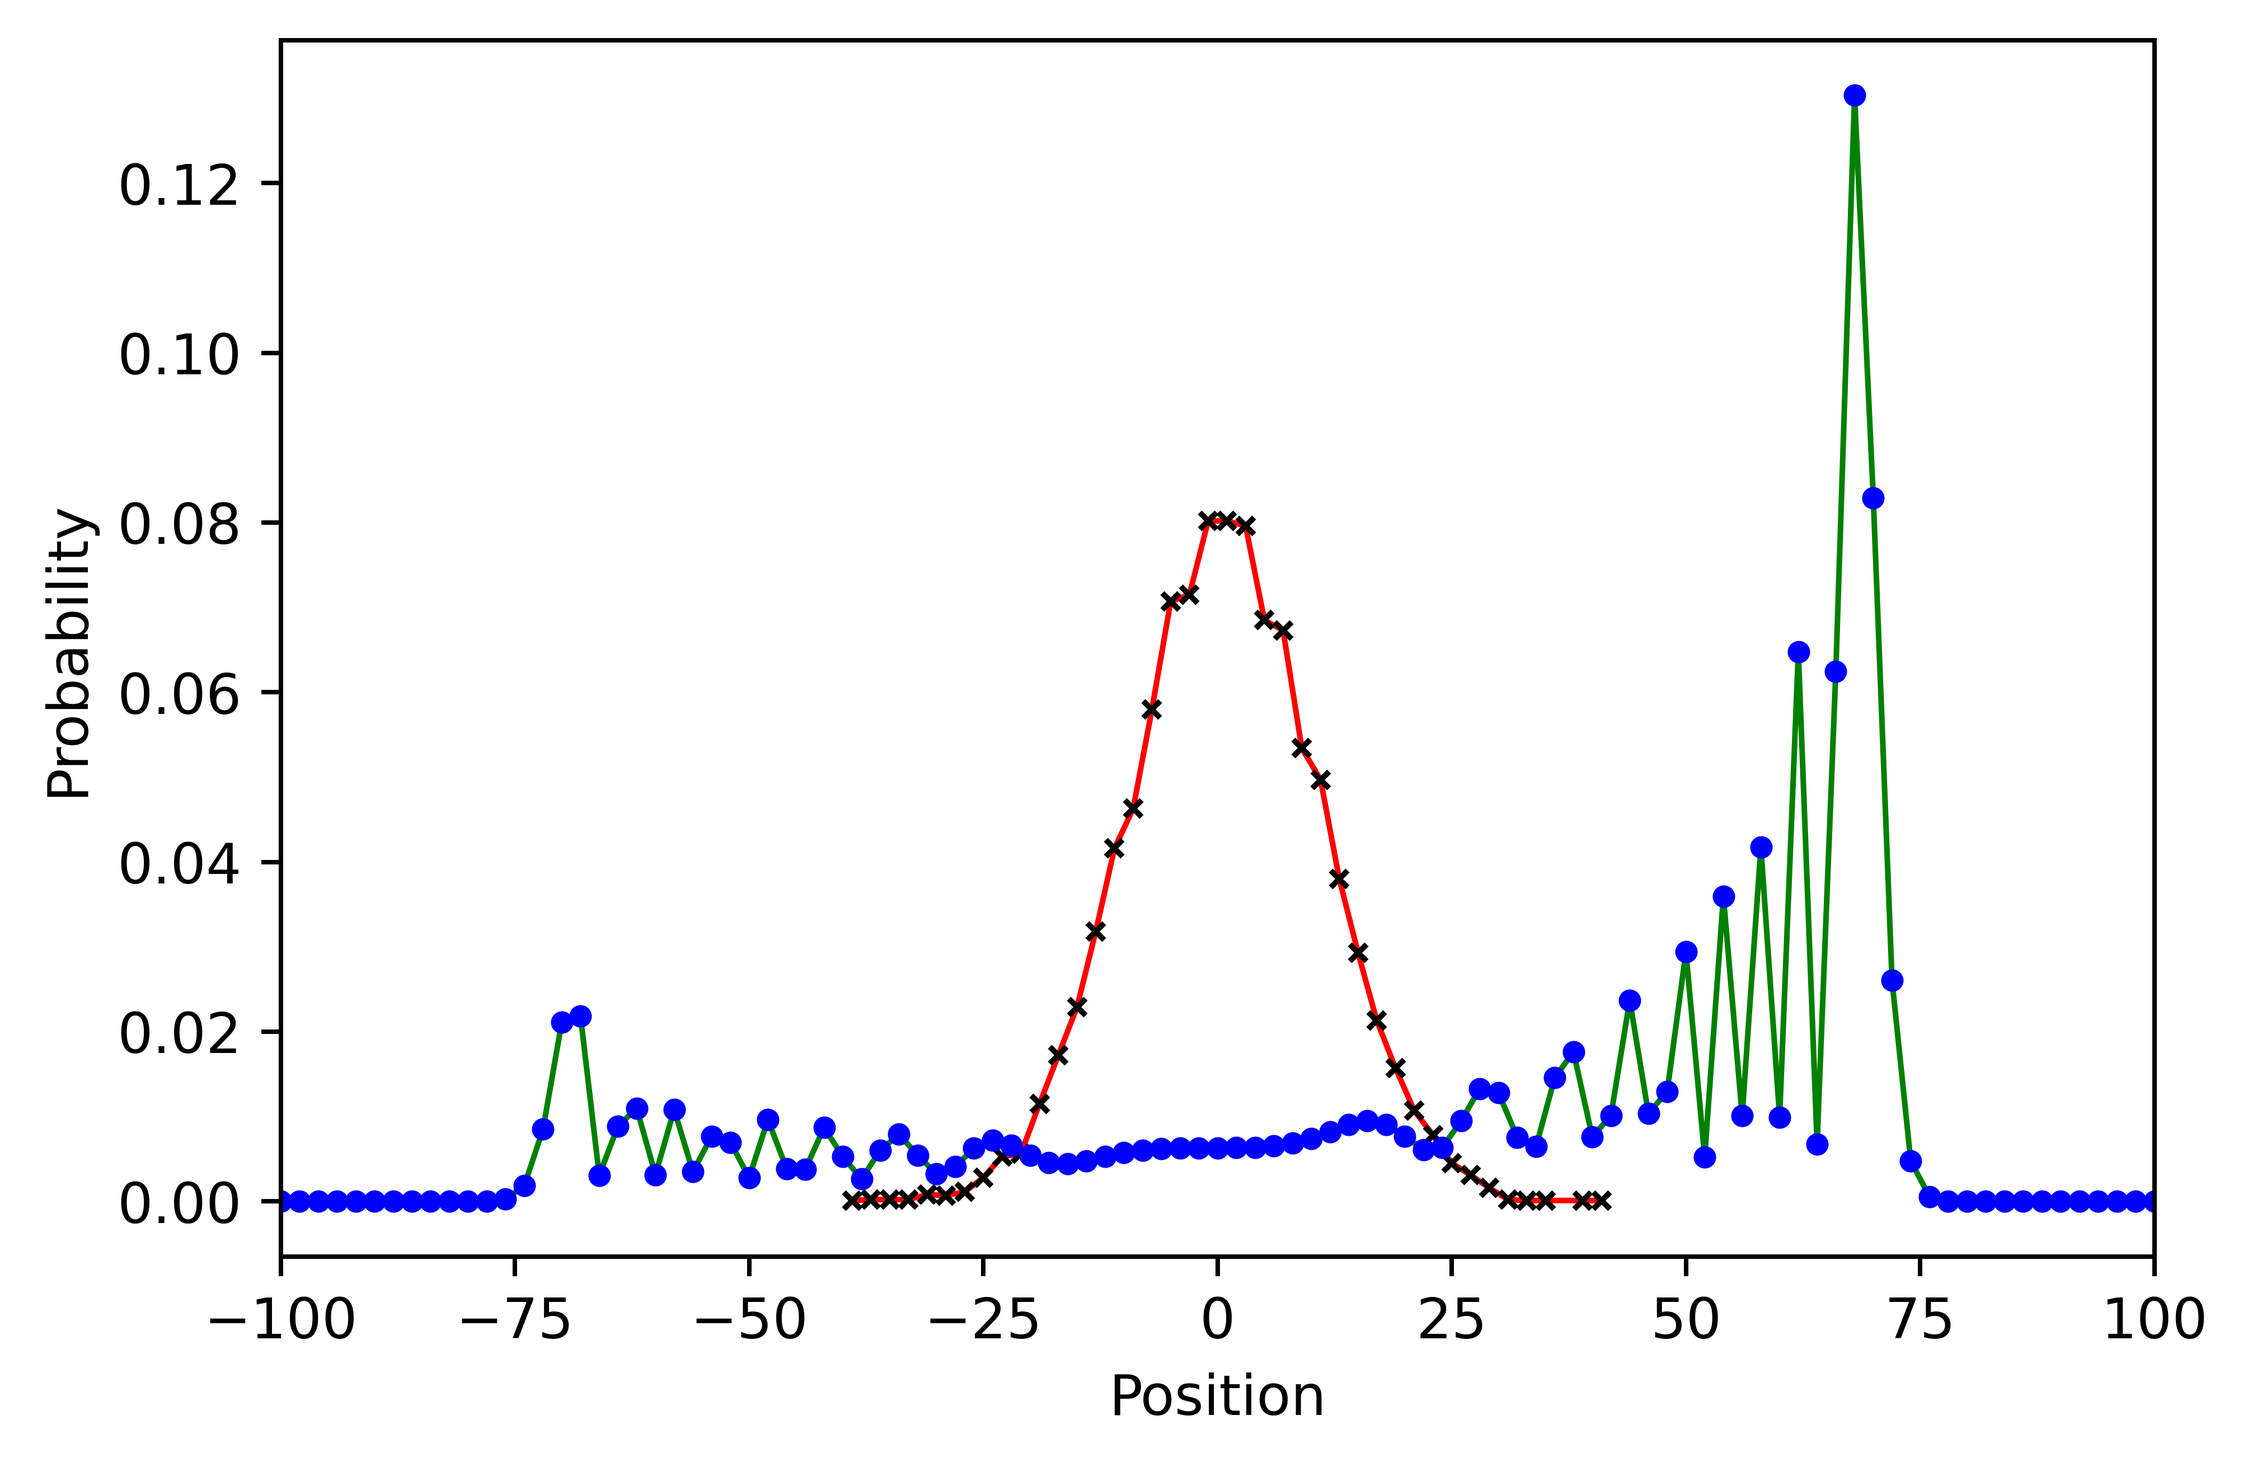
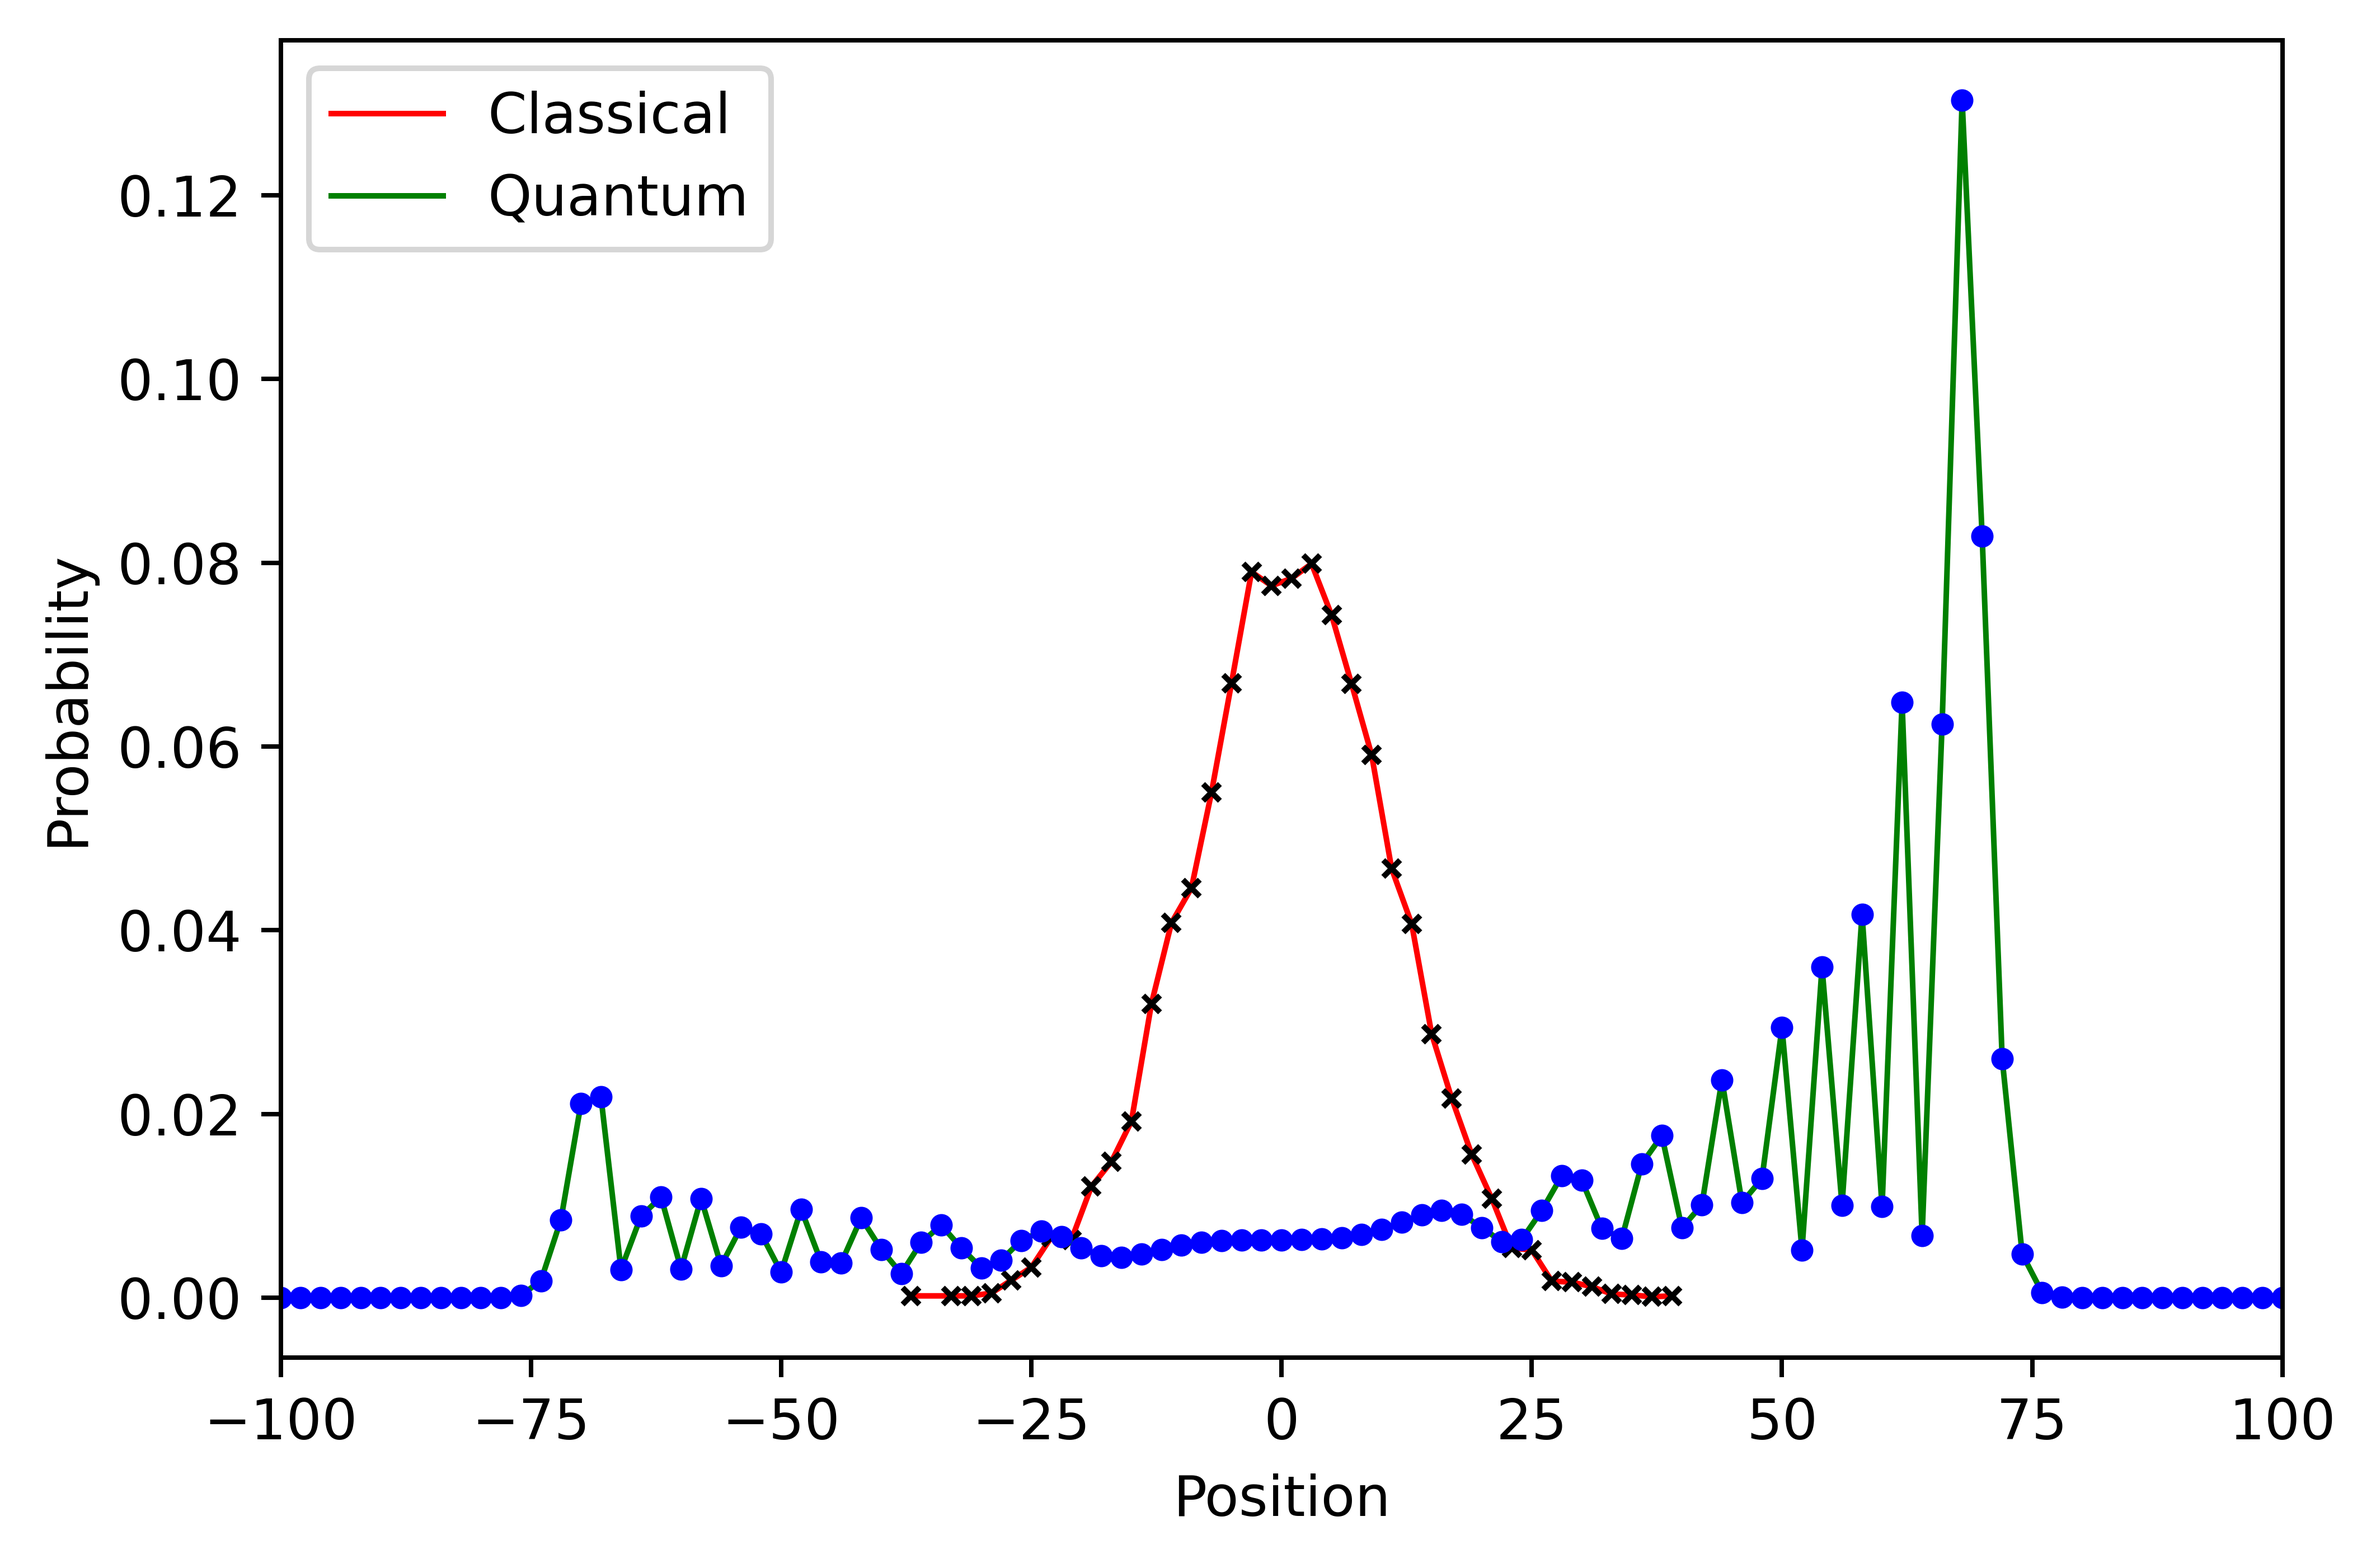
altered the coin used in the 1 d qw and added grover walk function

diff --git a/qw_vary_int_state.py b/qw_vary_int_state.py
@@ -13,18 +13,20 @@ p = 2 * n + 1;  # num of positions
 
 j= 1j;
 
-for theta in range(0, int(2*180)):
-    for phi in range(0, int(4*180)):
-        coin0 = np.array([np.cos(np.radians(theta)), 0]);  # |0>
-        coin1 = np.array([0, np.exp(j * phi) * np.sin(np.radians(theta))])  # |1>
-    
-        C00 = np.outer(coin0, coin0);  # |0><0|
-        C01 = np.outer(coin0, coin1);  # |0><1|
-        C10 = np.outer(coin1, coin0);  # |1><0|
-        C11 = np.outer(coin1, coin1);  # |1><1|
-    
-        C_hat = (C00 + C01 + C10 - C11) / np.sqrt(2.);
-    
+d = 2 #dimension
+
+def grover(n):
+    return np.ones((d,d)) - 2*np.eye(d)/d
+
+for theta in range(0,360,30):
+    for phi in range(0,360,30):
+        coin0 = np.array([np.cos(np.radians(theta)), np.exp(j*np.radians(phi))*np.sin(np.radians(theta))]);  # |0>
+        #coin1 = np.array([np.sin(np.radians(theta)), np.exp(j * np.radians(phi)) * -np.cos(np.radians(theta))])  # |1>
+        
+        C_hat = np.array([[1,1],[1,-1]])/np.sqrt(2)
+        
+        C00 = np.outer([1,0],[1,0])
+        C11 = np.outer([0,1],[0,1])
         ShiftPlus = np.roll(np.eye(p), 1, axis=0);
         ShiftMinus = np.roll(np.eye(p), -1, axis=0);
         S_hat = np.kron(ShiftPlus, C00) + np.kron(ShiftMinus, C11);
@@ -36,7 +38,7 @@ for theta in range(0, int(2*180)):
         posn0[n] = 1;  # array indexing starts from 0, so index N is the central posn
         
         psi0 = np.kron(posn0, coin0);  # initial state |0>
-        
+        #print(np.det(U))
         psiN = np.linalg.matrix_power(U, n).dot(psi0);
         
         prob = np.empty(p);
@@ -57,7 +59,7 @@ for theta in range(0, int(2*180)):
         ax.plot(xval[np.where(prob != 0)], prob[np.where(prob != 0)], linewidth=1, color='r') # Plot the data
         ax.plot(xval[np.where(prob != 0)], prob[np.where(prob != 0)], 'o', markersize= 3, color='blue') # Plot the data
         
-        print(xval, prob);
+        #print(xval, prob);
         plt.xlabel("Position"); # Set x label
         plt.ylabel("Probability"); # Set y label
         ax.set_title('Quantum Walk');

diff --git a/integrated.py b/integrated.py
@@ -81,7 +81,7 @@ ax.plot(xval[np.where(prob != 0)], prob[np.where(prob != 0)], 'o', markersize= 3
 plt.xlabel("Position"); # Set x label
 plt.ylabel("Probability"); # Set y label
 ax.set_xlim(-n, n);
-plt.savefig('Images/integrated.png', dpi=720,bbox_inches='tight');
 plt.legend(loc='upper left');
 plt.tight_layout();
+plt.savefig('Images/integrated.png', dpi=720,bbox_inches='tight');
 plt.show();
